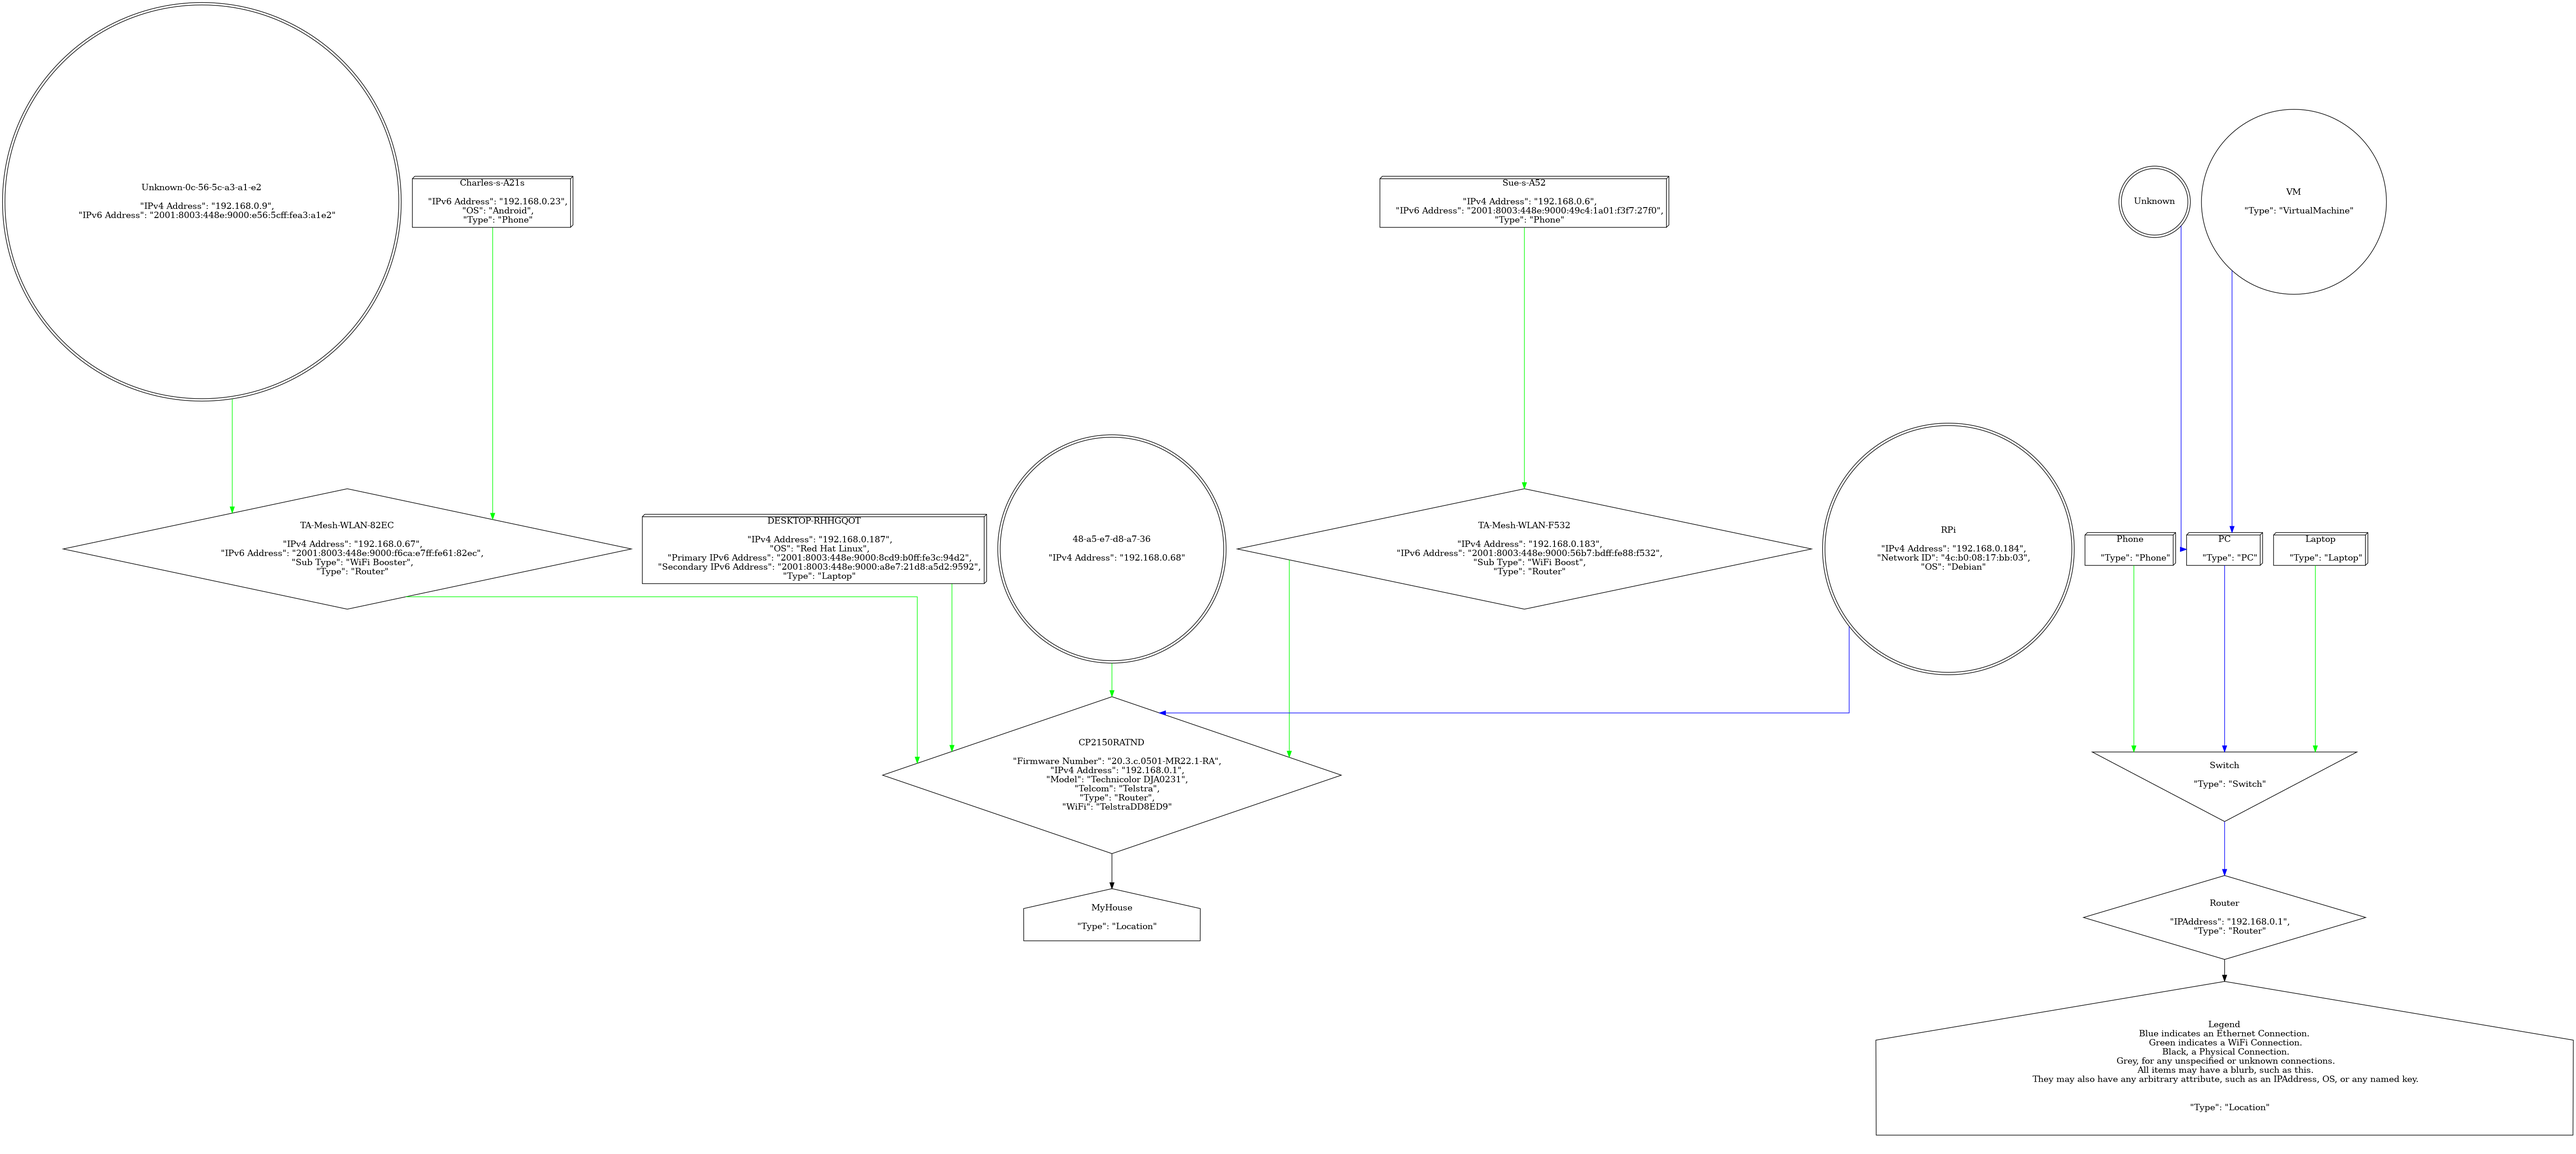
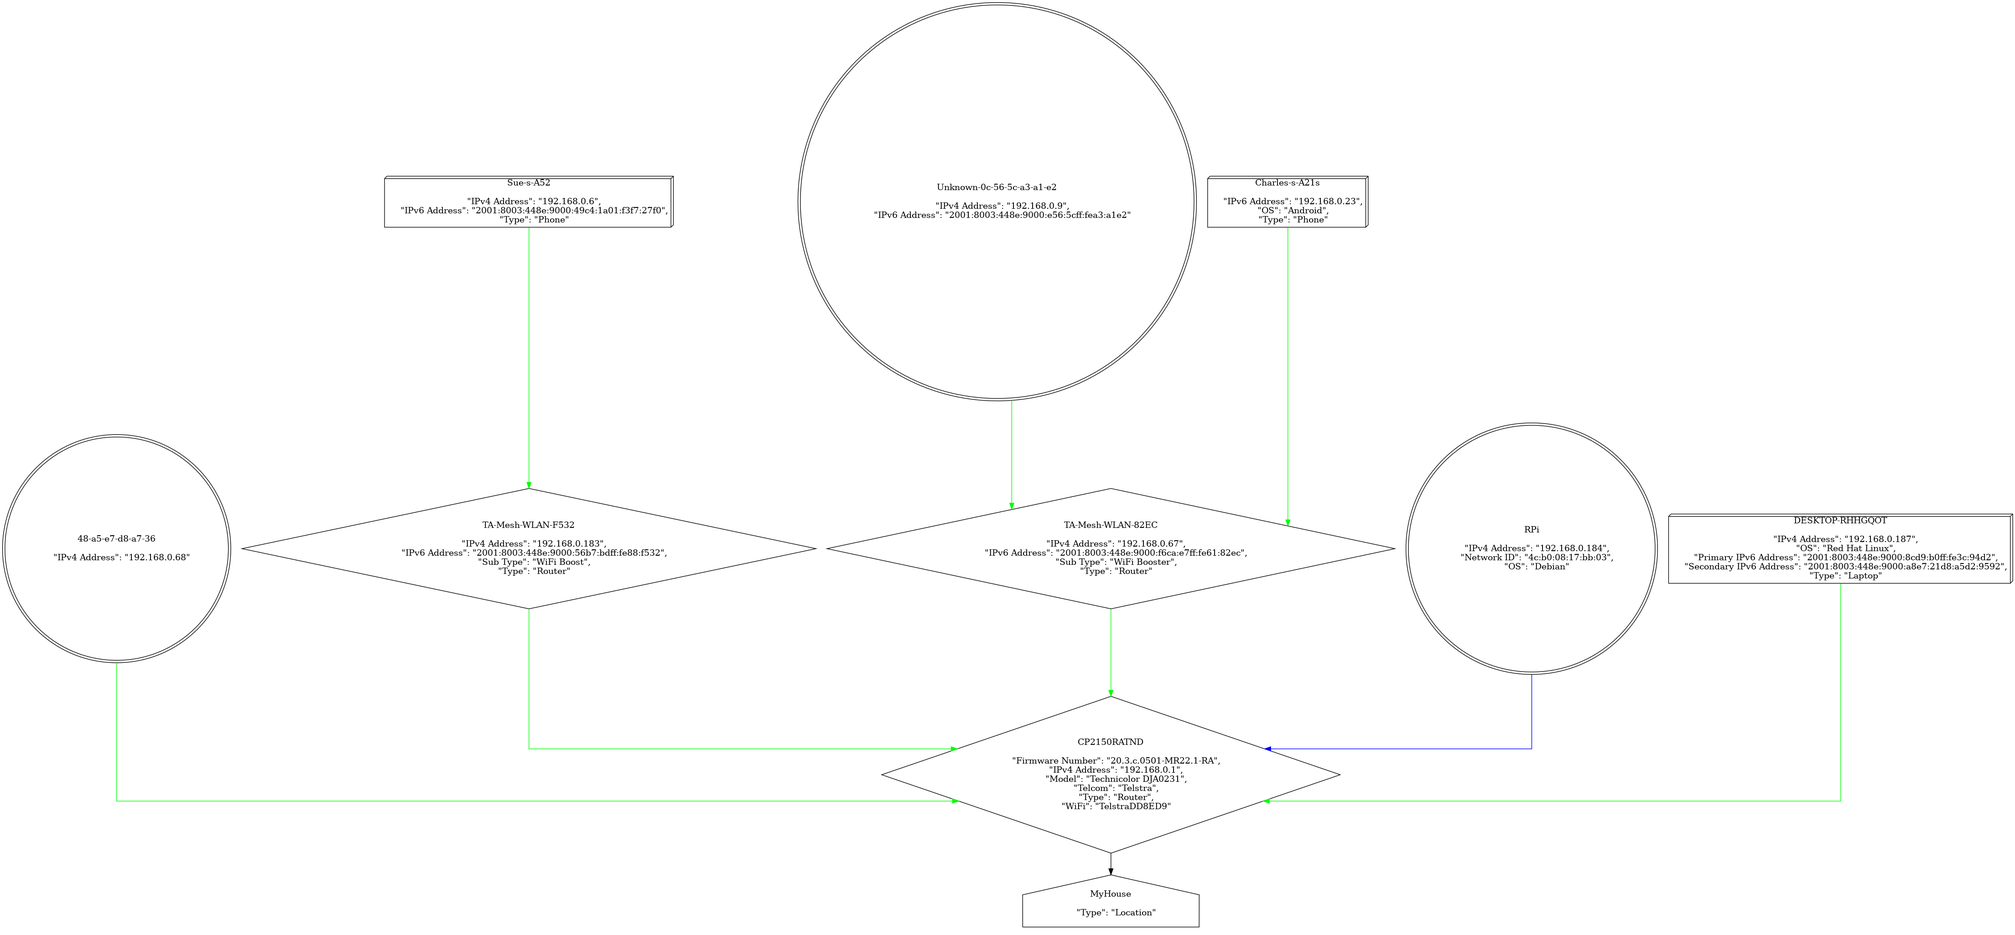
Shape to override. Allow disabling legend. Updated legend.

diff --git a/networkMapper.py b/networkMapper.py
@@ -13,6 +13,8 @@ def get(source, index):
 	except IndexError:
 		return type(source)()
 
+# TODO: Allow defining a new type, that has a scheme of attributes attached. (X is a new Type, X has a Shape of box3d, etc.)
+
 def parse_line(index, line):
 	r = {}
 	r['kind'] = 'metadata'
@@ -65,7 +67,7 @@ def parse_line(index, line):
 
 	return r
 
-def parse_file(filename):
+def parse_file(filename, require_legend=True):
 	r = {
 		'metadata': [],
 		'statement': []
@@ -81,14 +83,15 @@ def parse_file(filename):
 				else:
 					r['statement'].append(x['content'])
 			index = index + 1
-		for line in legend():
-			if line and line.rstrip() and line.rstrip()[0] != '#':
-				x = parse_line(index, line.strip())
-				if x['kind'] == 'metadata':
-					r['metadata'].append(x['content'])
-				else:
-					r['statement'].append(x['content'])
-			index = index + 1
+		if require_legend:
+			for line in legend():
+				if line and line.rstrip() and line.rstrip()[0] != '#':
+					x = parse_line(index, line.strip())
+					if x['kind'] == 'metadata':
+						r['metadata'].append(x['content'])
+					else:
+						r['statement'].append(x['content'])
+				index = index + 1
 
 	r2 = []
 	for statement in r['statement']:
@@ -165,7 +168,23 @@ def retree(names, data):
 
 def legend():
 	return """Legend:{prefix}LegendLoc has a Type of Location
-Legend:{prefix}LegendLoc has a Blurb of "Blue indicates an Ethernet Connection. Green indicates a WiFi Connection. Black, a Physical Connection. Grey, for any unspecified or unknown connections. All items may have a blurb, such as this. They may also have any arbitrary attribute, such as an IPAddress, OS, or any named key."
+Legend:{prefix}LegendLoc has a Blurb of "All items may have a Blurb, such as this. They may also have any arbitrary attribute, such as an IPAddress, OS, or any named key."
+
+Ethernet:{prefix}LegendVMEth has a Shape of box3d
+Ethernet:{prefix}LegendVMEth is connected to Legend:{prefix}LegendLoc via Ethernet
+Ethernet:{prefix}LegendVMEth has a Blurb of "Blue lines indicate an Ethernet Connection."
+
+WiFi:{prefix}LegendVMWifi has a Shape of box3d
+WiFi:{prefix}LegendVMWifi is connected to Legend:{prefix}LegendLoc via WiFi
+WiFi:{prefix}LegendVMWifi has a Blurb of "Green lines indicate a WiFi Connection."
+
+Physical:{prefix}LegendVMPhys has a Shape of box3d
+Physical:{prefix}LegendVMPhys is connected to Legend:{prefix}LegendLoc via Physical
+Physical:{prefix}LegendVMPhys has a Blurb of "Black lines indicate a Physical Connection."
+
+Unknown:{prefix}LegendVMUknown has a Shape of box3d
+Unknown:{prefix}LegendVMUknown is connected to Legend:{prefix}LegendLoc
+Unknown:{prefix}LegendVMUknown has a Blurb of "Grey lines specify an unknown connection type."
 
 Router:{prefix}LegendRouter has a Type of Router
 Router:{prefix}LegendRouter has a IPAddress of 192.168.0.1
@@ -182,15 +201,20 @@ PC:{prefix}LegendPC is connected to Switch:{prefix}LegendSwitch via Ethernet
 
 Laptop:{prefix}LegendLaptop has a Type of Laptop
 Laptop:{prefix}LegendLaptop is connected to Switch:{prefix}LegendSwitch via WiFi
+Laptop:{prefix}LegendLaptop is connected to Switch:{prefix}LegendSwitch via Ethernet
 
 VM:{prefix}LegendVM has a Type of VirtualMachine
 VM:{prefix}LegendVM is connected to PC:{prefix}LegendPC
 
 Unknown:{prefix}LegendUnknown has a Blurb of "no type given"
 Unknown:{prefix}Legend is connected to PC:{prefix}LegendPC
+
+Unknown:{prefix}Legend2 has a Shape of "triangle"
+Unknown:{prefix}Legend2 has a Blurb of "Custom shapes are provided by the Shape attribute.\\nAnything that DOT/graphviz would understand is accepted."
+Unknown:{prefix}Legend2 is connected to Legend:{prefix}LegendLoc via Physical
 	""".format(prefix=secrets.token_hex(16)).split("\n")
 
-def main(tree, output_filename):
+def main(tree, output_filename, require_legend=True):
 	dot = Digraph(graph_attr = {'splines':'ortho', 'strict': 'false', 'overlap': 'false'})
 	#dot = Digraph(graph_attr = {"concentrate": "true", 'strict': 'false', 'overlap': 'false'})
 
@@ -223,6 +247,7 @@ def main(tree, output_filename):
 		"location": "house",
 		"unknown": "doublecircle"
 	}
+	# TODO: Allow colour, other properties, overriding...?
 
 	for row in proper_tree:
 		with dot.subgraph() as sub:
@@ -232,10 +257,20 @@ def main(tree, output_filename):
 				shape_a = symbol_shapes['unknown']
 
 			try:
+				shape_a = data[row['Name A']]['meta']['Shape']
+			except KeyError:
+				pass
+
+			try:
 				meta_details = data[row['Name A']]['meta'].copy()
 				try:
 					meta_details['Blurb']
 					del meta_details['Blurb']
+				except KeyError:
+					pass
+				try:
+					meta_details['Shape']
+					del meta_details['Shape']
 				except KeyError:
 					pass
 				details_a = json.dumps(meta_details, indent=4, sort_keys=True)[1:-1]
@@ -248,10 +283,20 @@ def main(tree, output_filename):
 				shape_b = symbol_shapes['unknown']
 
 			try:
+				shape_b = data[row['Name A']]['meta']['Shape']
+			except KeyError:
+				pass
+
+			try:
 				meta_details = data[row['Name B']]['meta'].copy()
 				try:
 					meta_details['Blurb']
 					del meta_details['Blurb']
+				except KeyError:
+					pass
+				try:
+					meta_details['Shape']
+					del meta_details['Shape']
 				except KeyError:
 					pass
 				details_b = json.dumps(meta_details, indent=4, sort_keys=True)[1:-1]
@@ -313,11 +358,14 @@ def cli():
 	parser = argparse.ArgumentParser(description='Render a network tree.')
 	parser.add_argument('-i', '--input-file', help='The input file to parse.', required=True)
 	parser.add_argument('-o', '--output-file', help='The output file to render.', required=True)
+	parser.add_argument('-l', '--legend', help='Add the legend to the output', action='store_true')
+	parser.add_argument('-nl', '--no-legend', dest='legend', action='store_false')
+	parser.set_defaults(legend=True)
 
 	args = parser.parse_args()
 
-	tree = parse_file(args.input_file)
-	main(tree, args.output_file)
+	tree = parse_file(args.input_file, args.legend)
+	main(tree, args.output_file, args.legend)
 
 if __name__ == "__main__":
 	cli()
